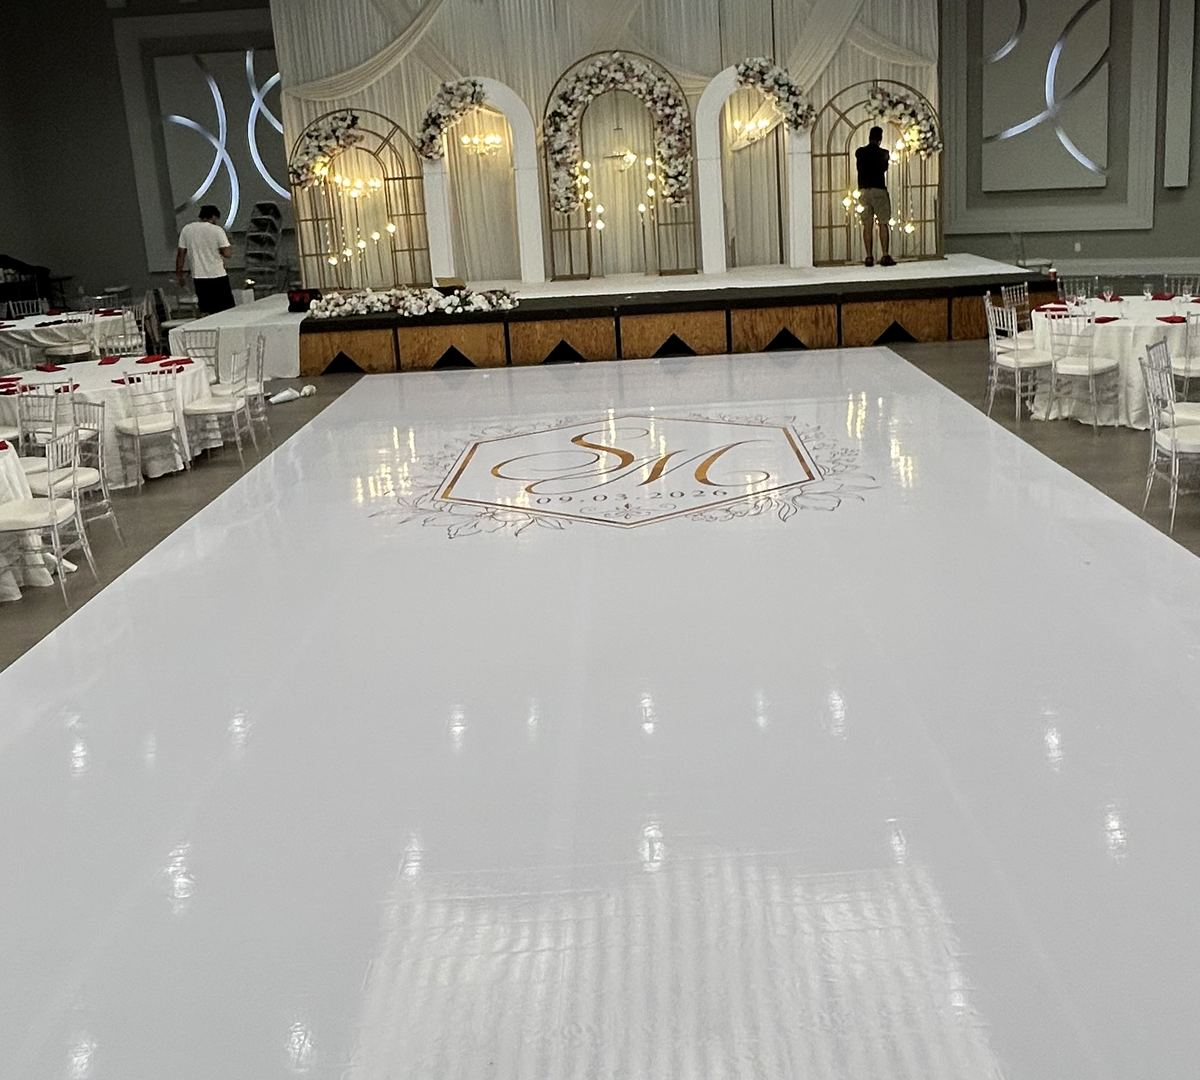
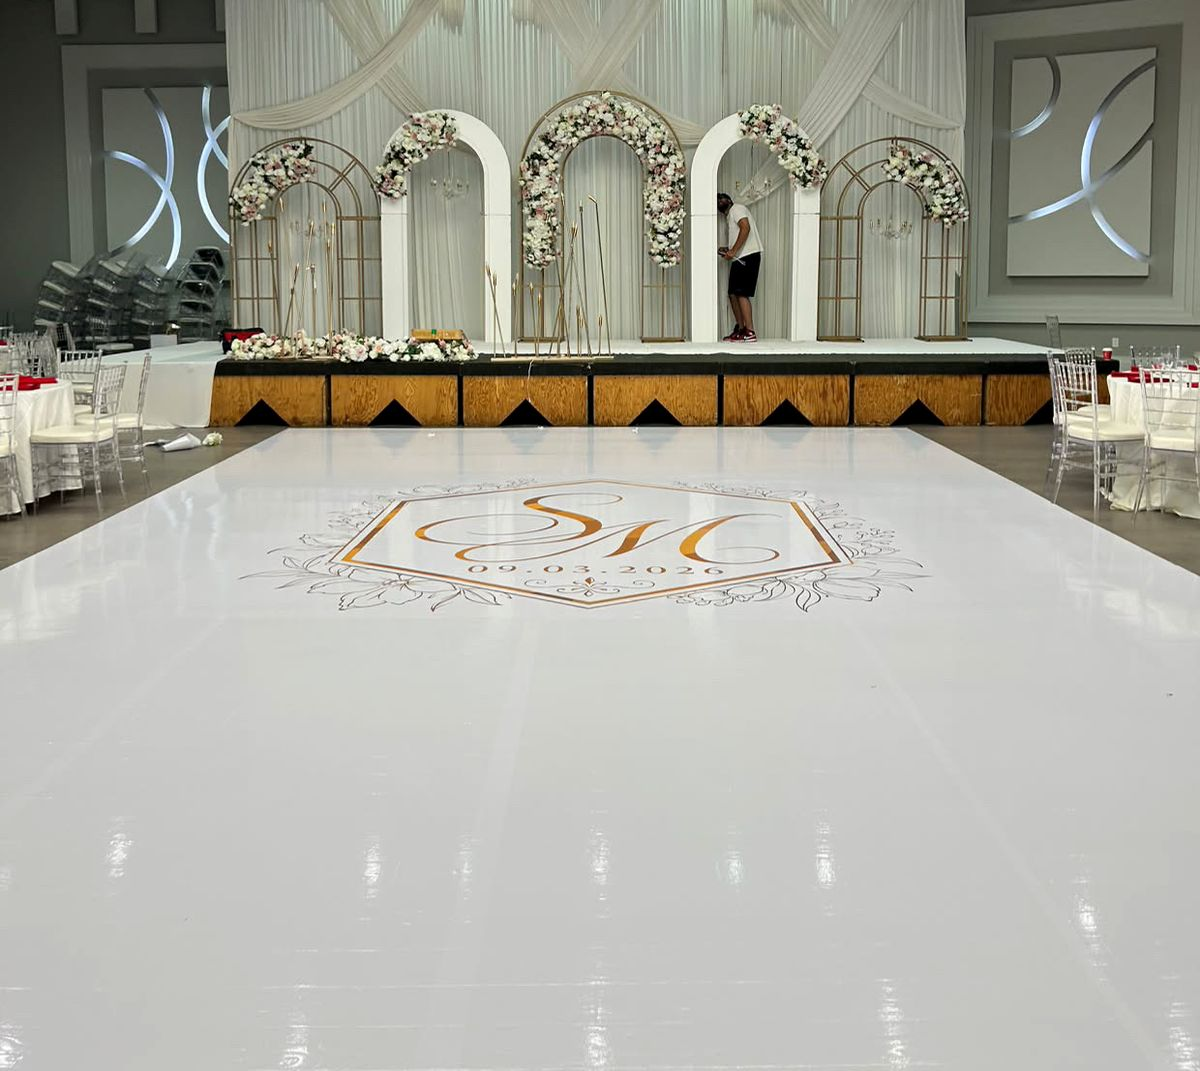
White floors card: straight-on crest photo
Claude-Session: https://claude.ai/code/session_013ySk63ky4VfYLm5nuRfp3p

diff --git a/index.html b/index.html
@@ -277,7 +277,7 @@
         <!-- Card 1: Plain White Wraps -->
         <div class="service-card reveal reveal-delay-1" id="service-white">
           <div class="service-card__image">
-            <img src="assets/photos/white-glossy-arches-800.jpg" srcset="assets/photos/white-glossy-arches-800.jpg 800w, assets/photos/white-glossy-arches-1200.jpg 1200w" sizes="(max-width: 768px) 100vw, 33vw" alt="Glossy white dance floor wrap with a gold crest monogram in front of a floral arch stage" width="800" height="720" loading="lazy" decoding="async" />
+            <img src="assets/photos/white-glossy-arches-800.jpg" srcset="assets/photos/white-glossy-arches-800.jpg 800w, assets/photos/white-glossy-arches-1200.jpg 1200w" sizes="(max-width: 768px) 100vw, 33vw" alt="Glossy white dance floor wrap with a gold crest monogram in front of a floral arch stage" width="800" height="714" loading="lazy" decoding="async" />
           </div>
           <div class="service-card__body">
             <div class="service-card__icon">✦</div>

diff --git a/styles.css b/styles.css
@@ -1760,3 +1760,4 @@ ul {
 }
 .gallery__header .section-subheading, .insta__header .section-subheading { margin-left: auto; margin-right: auto; }
 #service-white .service-card__image img { object-position: center 35%; }
+#service-white .service-card__image img { object-position: center 40%; }
